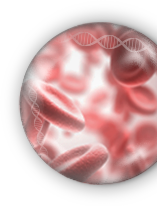
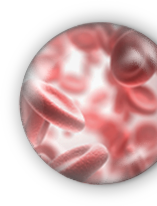
v1 animation complete

diff --git a/300x250/_/components/sass/_adstyles.scss b/300x250/_/components/sass/_adstyles.scss
@@ -43,74 +43,128 @@
               top: 0px;
               background: #00a650;
           }
-          #t1, #t2, #t3, #wt{
+          #bradFlare {
+              width: 192px;
+              height: 133px;
               position: absolute;
-              left:0px;
-              top:0px;
+              left: 110px;
+              top: 0px;
+              background-image: url(../img/flare.png);
           }
-          #t1{
+          #t1,
+          #t2,
+          #t3 {
+              position: absolute;
+              left: 0px;
+              top: 0px;
+          }
+          #t1 {
               width: 300px;
               height: 250px;
               background-image: url(../img/t1.png);
           }
-          #t2{
+          #t2 {
               width: 300px;
               height: 250px;
               background-image: url(../img/t2.png);
           }
-          #t3{
+          #t3 {
               width: 300px;
               height: 250px;
               background-image: url(../img/t3.png);
           }
-          #wt{
-              left:20px;
-              top:83px;
-              width: 254px;
-              height: 96px;
-              background-image: url(../img/wt.png);
-              
-          }
-          #t4{
+          #t1a {
               position: absolute;
-              left:12px;
-              top:35px;
-               width:87px;
+              left: 20px;
+              top: 84px;
+              width: 254px;
+              height: 23px;
+              background-image: url(../img/t1a.svg);
+          }
+          #t1b {
+              position: absolute;
+              left: 48px;
+              top: 119px;
+              width: 196px;
+              height: 23px;
+              background-image: url(../img/t1b.svg);
+          }
+          #t1c {
+              position: absolute;
+              left: 63px;
+              top: 155px;
+              width: 180px;
+              height: 23px;
+              background-image: url(../img/t1c.svg);
+          }
+          #t4 {
+              position: absolute;
+              left: 12px;
+              top: 35px;
+              width: 87px;
               height: 13px;
               background-image: url(../img/t4.png);
           }
-          #t5{
+          #t5 {
               position: absolute;
-              left:12px;
-              top:70px;
-               width:138px;
+              left: 12px;
+              top: 70px;
+              width: 138px;
               height: 50px;
               background-image: url(../img/t5.png);
           }
-          #t6{
+          #t6 {
               position: absolute;
-              left:12px;
-              top:127px;
-               width:143px;
+              left: 12px;
+              top: 127px;
+              width: 143px;
               height: 56px;
               background-image: url(../img/t6.png);
           }
-          #d1{
+          #d1 {
               position: absolute;
-              left:30px;
-              top:0px;
-               width: 207px;
+              left: 30px;
+              top: 0px;
+              width: 207px;
               height: 193px;
               background-image: url(../img/d1.png);
           }
-          
-          #d2{
+          #d2 {
               position: absolute;
-              left:230px;
-              top:55px;
-               width: 157px;
+              left: 148px;
+              top: 33px;
+              width: 157px;
               height: 206px;
               background-image: url(../img/d2.png);
+          }
+          #dna>#dna1,
+          #dna>#dna2,
+          #dna>#dna3 {
+              position: absolute;
+          }
+          #dna>#dna1 {
+              position: absolute;
+              left: 12px;
+              top: 0px;
+              width: 300px;
+              height: 250px;
+              background-image: url(../img/dna1.png);
+          }
+          #dna>#dna2 {
+              position: absolute;
+              left: 0px;
+              top: 0px;
+              width: 300px;
+              height: 250px;
+              background-image: url(../img/dna2.png);
+          }
+          #dna>#dna3 {
+              position: absolute;
+              left: 0px;
+              top: 0px;
+              width: 300px;
+              height: 250px;
+              background-image: url(../img/dna3.png);
           }
           #bradFooter {
               background: #fff;

diff --git a/300x250/js/script.js b/300x250/js/script.js
@@ -1,1 +1,1 @@
-function startAd(){}function addListeners(){document.getElementById("bradContent").addEventListener("click",clickthrough)}function clickthrough(){EB.clickthrough()}function animationComplete(evt){}function checkInit(){function onInit(){TweenLite.set("#bradContainer",{opacity:1}),addListeners(),startAd()}EB.isInitialized()?onInit():EB.addEventListener(EBG.EventName.EB_INITIALIZED,onInit)}function updateSlider(){$("#slider").slider("value",100*tl.progress())}window.addEventListener("load",checkInit);var tl=new TimelineLite({onUpdate:updateSlider});tl.eventCallback("onComplete",animationComplete),$("#play").click(function(){1!=tl.progress()?tl.play():tl.restart()}),$("#pause").click(function(){tl.pause()}),$("#restart").click(function(){tl.restart()}),$("#slider").slider({range:!1,min:0,max:100,step:.1,slide:function(event,ui){tl.pause(),tl.progress(ui.value/100)}});
+function startAd(){var ttl=new TimelineLite;ttl.from("#t1",1.4,{x:-2,y:2,opacity:0,ease:RoughEase.ease.config({template:Power0.easeNone,strength:1,points:10,taper:"none",randomize:!0,clamp:!1})}).to("#t1",1,{opacity:0},2.4).from("#t2",1,{x:2,opacity:0},1).to("#t2",1.6,{y:2,opacity:0,ease:RoughEase.ease.config({template:Power0.easeNone,strength:1,points:10,taper:"none",randomize:!0,clamp:!1})},3.6).from("#t3",1,{x:2,y:-2,opacity:0},2.4).to("#t3",1,{opacity:0},4).to("#t1",1,{x:-1,opacity:1,ease:RoughEase.ease.config({template:Power0.easeNone,strength:1,points:10,taper:"none",randomize:!0,clamp:!1})},3.6).to("#t1",1,{opacity:0},5.2).from("#t1a",1,{opacity:0},5).from("#t1b",1,{opacity:0},5).from("#t1c",1,{opacity:0},5).to("#t1a",1,{scale:2,y:-100,opacity:0,ease:Power3.easeOut},7.5).to("#t1b",1,{scale:4,y:-60,opacity:0,ease:Power3.easeOut},7.5).to("#t1c",1,{css:{z:430,x:6,y:-5},ease:Power3.easeOut},7.5).to("#t1c",1,{opacity:0,ease:Power3.easeOut},8);var bgtl=new TimelineLite;bgtl.from("#grnBackground",.6,{opacity:0});var dtl=new TimelineLite;dtl.from("#d1",.8,{scale:0,opacity:0,ease:Back.easeOut.config(1)}).to("#d1",.8,{x:-240,ease:Power3.easeOut},2).from("#d2",.8,{opacity:0,x:350,ease:Power3.easeOut},2).from("#dna1",.8,{opacity:0,ease:Power3.easeOut},2.6).from("#dna2",.8,{opacity:0,ease:Power3.easeOut},2.8).from("#dna3",.8,{opacity:0,ease:Power3.easeOut},3);var ettl=new TimelineLite;ettl.from("#t4",.6,{y:-20,opacity:0,ease:Power3.easeOut}).from("#t5",.6,{y:-20,opacity:0,ease:Power3.easeOut}).from("#t6",.6,{y:-20,opacity:0,ease:Power3.easeOut});var ctl=new TimelineLite;ctl.from("#bradFooter",.6,{opacity:0,ease:Power3.easeOut}).from("#bradCtaButton",.8,{opacity:0,ease:Power3.easeOut},0).from("#bradLogo",.8,{opacity:0,ease:Power3.easeOut},0);var ftl=new TimelineLite;ftl.from("#bradFlare",.8,{x:-100,opacity:0,ease:Power3.easeOut}),tl.add(ttl,0),tl.add(bgtl,12),tl.add(dtl,8.2),tl.add(ettl,12),tl.add(ftl,13.6),tl.add(ctl,13.6),tl.totalDuration(15)}function addListeners(){document.getElementById("bradContent").addEventListener("click",clickthrough)}function clickthrough(){EB.clickthrough()}function animationComplete(evt){}function checkInit(){function onInit(){TweenLite.set("#bradContainer",{opacity:1}),CSSPlugin.defaultTransformPerspective=500,addListeners(),startAd()}EB.isInitialized()?onInit():EB.addEventListener(EBG.EventName.EB_INITIALIZED,onInit)}function updateSlider(){$("#slider").slider("value",100*tl.progress())}window.addEventListener("load",checkInit);var tl=new TimelineLite({onUpdate:updateSlider});tl.eventCallback("onComplete",animationComplete),$("#play").click(function(){1!=tl.progress()?tl.play():tl.restart()}),$("#pause").click(function(){tl.pause()}),$("#restart").click(function(){tl.restart()}),$("#slider").slider({range:!1,min:0,max:100,step:.1,slide:function(event,ui){tl.pause(),tl.progress(ui.value/100)}});

diff --git a/300x250/_/components/js/script.js b/300x250/_/components/js/script.js
@@ -1,4 +1,55 @@
 function startAd(){  
+    var ttl = new TimelineLite();
+    ttl.from("#t1", 1.4, {x:-2, y:2, opacity:0, ease: RoughEase.ease.config({ template: Power0.easeNone, strength: 1, points: 10, taper: "none", randomize: true, clamp: false})})
+        .to("#t1", 1, {opacity:0}, 2.4)
+        .from("#t2", 1, {x:2, opacity:0 }, 1)
+        .to("#t2", 1.6, {y:2,opacity:0, ease: RoughEase.ease.config({ template: Power0.easeNone, strength: 1, points: 10, taper: "none", randomize: true, clamp: false})}, 3.6)
+        .from("#t3", 1, {x:2, y:-2, opacity:0}, 2.4)
+        .to("#t3", 1, { opacity:0 }, 4)
+    
+        .to("#t1", 1, {x:-1, opacity:1, ease: RoughEase.ease.config({ template: Power0.easeNone, strength: 1, points: 10, taper: "none", randomize: true, clamp: false})}, 3.6)
+        .to("#t1", 1, { opacity:0}, 5.2)
+    
+        .from("#t1a", 1, {opacity:0}, 5)
+        .from("#t1b", 1, {opacity:0}, 5)
+        .from("#t1c", 1, {opacity:0}, 5)
+        .to("#t1a", 1, {scale:2, y:-100, opacity:0, ease: Power3.easeOut}, 7.5)
+        .to("#t1b", 1, {scale:4, y:-60, opacity:0, ease: Power3.easeOut }, 7.5)
+        .to("#t1c", 1, {css:{z:430, x:6, y:-5},  ease: Power3.easeOut}, 7.5)
+        .to("#t1c", 1, {opacity:0, ease: Power3.easeOut}, 8);
+    
+    var bgtl = new TimelineLite();
+    bgtl.from("#grnBackground", .6, {opacity:0});
+    
+    var dtl = new TimelineLite();
+    dtl.from("#d1", .8, {scale:0, opacity:0, ease: Back.easeOut.config(1)})
+    .to("#d1", .8, {x:-240, ease: Power3.easeOut}, 2)
+    .from("#d2", .8, {opacity:0, x: 350, ease: Power3.easeOut}, 2)
+    .from("#dna1", .8, {opacity:0, ease: Power3.easeOut}, 2.6)
+    .from("#dna2", .8, {opacity:0, ease: Power3.easeOut}, 2.8)
+    .from("#dna3", .8, {opacity:0, ease: Power3.easeOut}, 3);
+    
+    var ettl = new TimelineLite();
+    ettl.from("#t4", .6, {y:-20, opacity:0, ease: Power3.easeOut})
+        .from("#t5", .6, {y:-20, opacity:0, ease: Power3.easeOut})
+        .from("#t6", .6, {y:-20, opacity:0, ease: Power3.easeOut});
+    
+    var ctl = new TimelineLite();
+    ctl.from("#bradFooter", .6, {opacity:0,ease: Power3.easeOut})
+        .from("#bradCtaButton", .8, {opacity:0,ease: Power3.easeOut}, 0)
+        .from("#bradLogo", .8, { opacity:0,ease: Power3.easeOut}, 0);
+    
+    var ftl = new TimelineLite();
+    ftl.from("#bradFlare", .8, {x:-100, opacity:0,ease: Power3.easeOut})
+    
+    tl.add(ttl, 0);
+    tl.add(bgtl, 12);
+    tl.add(dtl, 8.2);
+    tl.add(ettl, 12);
+    tl.add(ftl, 13.6);
+    tl.add(ctl, 13.6);
+    
+    tl.totalDuration(15);
            
 };
 
@@ -26,6 +77,7 @@ function checkInit() {
                function onInit() {
     
     TweenLite.set("#bradContainer", {opacity:1});
+                   CSSPlugin.defaultTransformPerspective = 500;
     addListeners();
     startAd();
               } 

diff --git a/300x250/css/styles.css b/300x250/css/styles.css
@@ -87,7 +87,16 @@ body {
       left: 0px;
       top: 0px;
       background: #00a650; }
-    #bradContainer #bradContent #t1, #bradContainer #bradContent #t2, #bradContainer #bradContent #t3, #bradContainer #bradContent #wt {
+    #bradContainer #bradContent #bradFlare {
+      width: 192px;
+      height: 133px;
+      position: absolute;
+      left: 110px;
+      top: 0px;
+      background-image: url(../img/flare.png); }
+    #bradContainer #bradContent #t1,
+    #bradContainer #bradContent #t2,
+    #bradContainer #bradContent #t3 {
       position: absolute;
       left: 0px;
       top: 0px; }
@@ -103,12 +112,27 @@ body {
       width: 300px;
       height: 250px;
       background-image: url(../img/t3.png); }
-    #bradContainer #bradContent #wt {
+    #bradContainer #bradContent #t1a {
+      position: absolute;
       left: 20px;
-      top: 83px;
+      top: 84px;
       width: 254px;
-      height: 96px;
-      background-image: url(../img/wt.png); }
+      height: 23px;
+      background-image: url(../img/t1a.svg); }
+    #bradContainer #bradContent #t1b {
+      position: absolute;
+      left: 48px;
+      top: 119px;
+      width: 196px;
+      height: 23px;
+      background-image: url(../img/t1b.svg); }
+    #bradContainer #bradContent #t1c {
+      position: absolute;
+      left: 63px;
+      top: 155px;
+      width: 180px;
+      height: 23px;
+      background-image: url(../img/t1c.svg); }
     #bradContainer #bradContent #t4 {
       position: absolute;
       left: 12px;
@@ -139,11 +163,36 @@ body {
       background-image: url(../img/d1.png); }
     #bradContainer #bradContent #d2 {
       position: absolute;
-      left: 230px;
-      top: 55px;
+      left: 148px;
+      top: 33px;
       width: 157px;
       height: 206px;
       background-image: url(../img/d2.png); }
+    #bradContainer #bradContent #dna > #dna1,
+    #bradContainer #bradContent #dna > #dna2,
+    #bradContainer #bradContent #dna > #dna3 {
+      position: absolute; }
+    #bradContainer #bradContent #dna > #dna1 {
+      position: absolute;
+      left: 12px;
+      top: 0px;
+      width: 300px;
+      height: 250px;
+      background-image: url(../img/dna1.png); }
+    #bradContainer #bradContent #dna > #dna2 {
+      position: absolute;
+      left: 0px;
+      top: 0px;
+      width: 300px;
+      height: 250px;
+      background-image: url(../img/dna2.png); }
+    #bradContainer #bradContent #dna > #dna3 {
+      position: absolute;
+      left: 0px;
+      top: 0px;
+      width: 300px;
+      height: 250px;
+      background-image: url(../img/dna3.png); }
     #bradContainer #bradContent #bradFooter {
       background: #fff;
       width: 300px;

diff --git a/300x250/index.html b/300x250/index.html
@@ -21,20 +21,27 @@
            <div id="bradBackground"></div>
            <div id="grnBackground"></div>
            
-           <div id="wt"></div>
+           <div id="bradFlare"></div>           
+           
            <div id="t1"></div>
            <div id="t2"></div>
            <div id="t3"></div>
            
+           <div id="t1a"></div>
+           <div id="t1b"></div>
+           <div id="t1c"></div>
+           
            <div id="d1"></div>
            <div id="d2"></div>
-           <div id="dna"></div>
+           <div id="dna">
+               <div id="dna1"></div>
+               <div id="dna2"></div>
+               <div id="dna3"></div>
+           </div>
            
            <div id="t4"></div>
            <div id="t5"></div>
            <div id="t6"></div>
-            
-            <div id="bradFlare"></div>
             
             <div id="bradFooter">
                 <div id="bradCtaButton">
